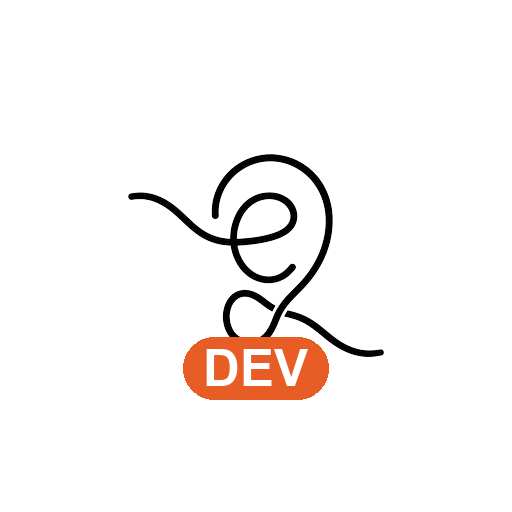
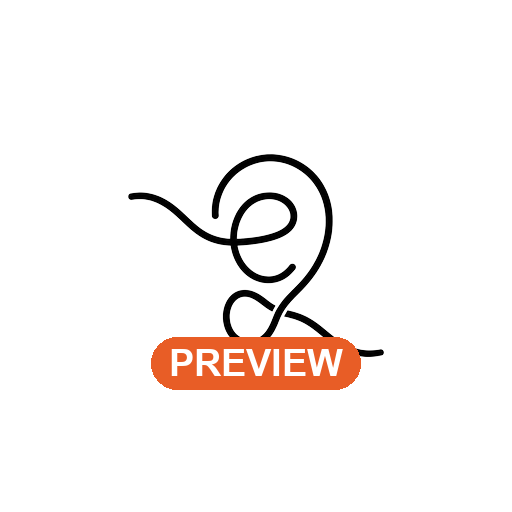
fix(fe): rename the preview app to dev.runtime.ear
Claude-Session: https://claude.ai/code/session_013KBKevs899Fu5rgGedEagb

Changed region(s): [[0.2812, 0.6562, 0.7188, 0.7812]]

diff --git a/frontend/app.config.js b/frontend/app.config.js
@@ -15,7 +15,7 @@
  */
 const IS_DEV_APP = process.env.APP_VARIANT === 'dev';
 
-const DEV_APP_ID = 'com.runtime.ear.dev';
+const DEV_APP_ID = 'dev.runtime.ear';
 
 /**
  * 개발계 앱 전용 소셜 로그인 값. **null 이면 운영 값을 그대로 쓴다**(콘솔 등록 전 상태).
@@ -45,7 +45,7 @@ module.exports = ({ config }) => {
 
   return {
     ...config,
-    name: '이어 dev',
+    name: '이어(Preview)',
     icon: './assets/icon-dev.png',
     ios: { ...ios, bundleIdentifier: DEV_APP_ID },
     android: {

diff --git a/docs/tickets/frontend/pending/dev-app-separate-bundle.md b/docs/tickets/frontend/pending/dev-app-separate-bundle.md
@@ -1,4 +1,4 @@
-# [FE] 개발계 앱을 별도 앱으로 분리 — `com.runtime.ear.dev` "이어 dev" (iOS·Android)
+# [FE] 개발계 앱을 별도 앱으로 분리 — `dev.runtime.ear` "이어(Preview)" (iOS·Android)
 
 | 항목 | 값 |
 |---|---|
@@ -19,7 +19,7 @@
 
 ## 요청 내용
 
-1. **앱 변형.** `APP_VARIANT=dev` 면 번들 ID·패키지 `com.runtime.ear.dev`, 이름 "이어 dev", DEV 띠 아이콘. 운영 설정의 원본은 `app.json` 그대로이고 변형 값이 없으면 `app.config.js` 는 아무것도 바꾸지 않는다.
+1. **앱 변형.** `APP_VARIANT=dev` 면 번들 ID·패키지 `dev.runtime.ear`, 이름 "이어(Preview)", PREVIEW 띠 아이콘. 운영 설정의 원본은 `app.json` 그대로이고 변형 값이 없으면 `app.config.js` 는 아무것도 바꾸지 않는다.
 2. 개발계 앱은 **도메인 연결(`associatedDomains`·https `intentFilters`)을 선언하지 않는다** — 공유 링크는 운영 앱이 받는다.
 3. `eas.json` preview 프로필과 `eas-update.yml` preview 채널 발행이 같은 `APP_VARIANT=dev` 를 쓴다. production 은 preview 를 `extends` 하므로 `APP_VARIANT=production` 을 **명시**한다(env 는 병합된다 — 빠뜨리면 운영 빌드가 dev 를 물려받는다).
 4. **iOS 는 TestFlight 내부 테스트**(`preview-store` 프로필, 스토어 서명)로 배포한다 — 기기 등록이 필요 없고 새 팀원은 이메일 초대만 받는다.
@@ -28,18 +28,16 @@
 
 ## 사람 손 — 콘솔 등록
 
-개발계 앱 Android 서명 키(EAS 저장, 2026-09-19 생성):
-- SHA-1 `A0:29:9F:92:9B:C4:97:33:81:6B:B5:08:7E:89:90:52:ED:7F:4C:7D`
-- 카카오 키 해시 `oCmfkpvElzOBa7UIfomQUu1/TH0=`
+개발계 앱 Android 서명 키(EAS 저장): **식별자를 `dev.runtime.ear` 로 바꾸며 키스토어가 새로 생긴다 — SHA-1·카카오 키 해시는 첫 빌드 뒤 "처리 기록"에 적는다.** (`com.runtime.ear.dev` 용으로 만들어진 키 `A0:29:9F:…` 는 쓰지 않는다)
 
 | # | 어디 | 무엇을 | 안 하면 |
 |---|---|---|---|
-| 1 | Apple(터미널) | `cd frontend && npx eas-cli build -p ios --profile preview-store` — Apple 로그인, 번들 ID·인증서 자동 생성. 이어서 `npx eas-cli submit -p ios --latest` — ASC 앱 "이어 dev" 자동 생성 | iOS 개발계 앱이 없다 |
+| 1 | Apple(터미널) | `cd frontend && npx eas-cli build -p ios --profile preview-store` — Apple 로그인, 번들 ID·인증서 자동 생성. 이어서 `npx eas-cli submit -p ios --latest` — ASC 앱 "이어(Preview)" 자동 생성 | iOS 개발계 앱이 없다 |
 | 2 | App Store Connect | TestFlight > 내부 테스트 그룹에 팀원 추가 | 팀원이 설치 못 한다 |
-| 3 | 구글 클라우드(프로젝트 475643832949) | OAuth 클라이언트 2개 생성 — **iOS**(번들 `com.runtime.ear.dev`) · **Android**(패키지 `com.runtime.ear.dev` + 위 SHA-1). iOS 클라이언트 ID 는 `app.config.js` 의 `DEV_SOCIAL_AUTH.googleIosClientId` 에 넣는다(네이티브 값이라 iOS 재빌드 필요 — **1번보다 먼저 하면 빌드 한 번으로 끝난다**) | 개발계 앱 구글 로그인 실패 |
-| 4 | 카카오 개발자 콘솔 | 플랫폼에 iOS 번들 ID·Android 패키지 `com.runtime.ear.dev` + 위 키 해시 추가 | 개발계 앱 카카오 로그인 실패 |
-| 5 | 네이버 개발자 센터 | Android 패키지 `com.runtime.ear.dev` · iOS 번들 추가(URL 스킴은 그대로 `earnaverlogin`) | 개발계 앱 네이버 로그인 실패 |
-| 6 | 개발계 서버 env | `APPLE_CLIENT_ID=com.runtime.ear.dev` — `docs/tickets/infra/pending/dev-server-apple-client-id.md` | 개발계 iOS 앱 애플 로그인이 `aud` 불일치로 거부된다 |
+| 3 | 구글 클라우드(프로젝트 475643832949) | OAuth 클라이언트 2개 생성 — **iOS**(번들 `dev.runtime.ear`) · **Android**(패키지 `dev.runtime.ear` + 처리 기록의 SHA-1). iOS 클라이언트 ID 는 `app.config.js` 의 `DEV_SOCIAL_AUTH.googleIosClientId` 에 넣는다(네이티브 값이라 iOS 재빌드 필요 — **1번보다 먼저 하면 빌드 한 번으로 끝난다**) | 개발계 앱 구글 로그인 실패 |
+| 4 | 카카오 개발자 콘솔 | 플랫폼에 iOS 번들 ID·Android 패키지 `dev.runtime.ear` + 처리 기록의 키 해시 추가 | 개발계 앱 카카오 로그인 실패 |
+| 5 | 네이버 개발자 센터 | Android 패키지 `dev.runtime.ear` · iOS 번들 추가(URL 스킴은 그대로 `earnaverlogin`) | 개발계 앱 네이버 로그인 실패 |
+| 6 | 개발계 서버 env | `APPLE_CLIENT_ID=dev.runtime.ear` — `docs/tickets/infra/pending/dev-server-apple-client-id.md` | 개발계 iOS 앱 애플 로그인이 `aud` 불일치로 거부된다 |
 
 ## 알려진 한계
 
@@ -49,7 +47,7 @@
 
 ## 완료 조건
 
-- Given 운영 앱이 깔린 폰 / When 개발계 앱을 설치한다 / Then 두 앱이 나란히 있고 이름("이어 dev")·아이콘(DEV 띠)으로 구분된다
+- Given 운영 앱이 깔린 폰 / When 개발계 앱을 설치한다 / Then 두 앱이 나란히 있고 이름("이어(Preview)")·아이콘(PREVIEW 띠)으로 구분된다
 - Given `APP_VARIANT` 없이 설정을 평가한다 / When `app.json` 만 쓸 때와 비교한다 / Then 한 글자도 다르지 않다
 - Given 개발계 앱 / When dev 에 JS 변경이 머지된다 / Then preview 채널 OTA 로 받고 개발계 API 를 본다
 - Given 개발계 앱 / When 구글·카카오·네이버·애플로 로그인한다 / Then 개발계 API 로 로그인된다
@@ -61,3 +59,7 @@
 - `eas.json`: preview `APP_VARIANT=dev`, production `APP_VARIANT=production` 명시, `preview-store` 프로필 추가. `eas-update.yml`: 채널 결정 단계가 `app_variant` 도 정한다.
 - EAS 에 개발계 앱 Android 키스토어 생성됨(위 SHA-1). 클라우드 빌드는 무료 한도 소진으로 실패 → `dev-app-build.yml` 로 대체.
 - 남은 것: 위 "사람 손" 1~6, Android APK 워크플로 첫 실행 확인, 팀 Slack 공지. 끝나면 KAN-65 와 함께 닫는다.
+
+## 처리 기록 (2026-09-19 — 식별자·이름 변경)
+
+- 계정 소유자가 등록한 값에 맞춰 식별자를 `com.runtime.ear.dev` → **`dev.runtime.ear`**, 이름을 "이어 dev" → **"이어(Preview)"**, 아이콘 띠를 DEV → PREVIEW 로 바꿨다. 아직 배포된 개발계 빌드가 없어 영향은 없다.

diff --git a/docs/tickets/infra/pending/dev-server-apple-client-id.md b/docs/tickets/infra/pending/dev-server-apple-client-id.md
@@ -7,21 +7,21 @@
 | 요청자 | 이주호(FE) |
 | 발행 날짜 | 2026-09-19 |
 | Jira | [KAN-77](https://runtime364.atlassian.net/browse/KAN-77) |
-| 발견 시점 | 개발계 앱을 별도 번들(`com.runtime.ear.dev`)로 분리(KAN-76) |
+| 발견 시점 | 개발계 앱을 별도 번들(`dev.runtime.ear`)로 분리(KAN-76) |
 | 근거 문서 | `backend/src/config/env.validation.ts`(`APPLE_CLIENT_ID` — 애플 identity token 의 `aud` = iOS 번들 ID) · `spec/api/auth-api.md` 4.1 |
 | 중요도 | **Low** — 이번 주 안. iOS 개발계 앱이 TestFlight 에 올라오기 전까지는 영향 없다 |
 
 ## 문제
 
-서버는 애플 identity token 의 `aud` 를 `APPLE_CLIENT_ID`(iOS 번들 ID)·`APPLE_SERVICES_ID` 와 대조한다(`apple.client.ts`). 개발계 iOS 앱의 번들 ID 가 `com.runtime.ear.dev` 로 바뀌면 토큰의 `aud` 도 그 값이라, 개발계 서버가 운영 번들 ID(`com.runtime.ear`)를 들고 있으면 **개발계 iOS 앱의 애플 로그인이 전부 거부된다.**
+서버는 애플 identity token 의 `aud` 를 `APPLE_CLIENT_ID`(iOS 번들 ID)·`APPLE_SERVICES_ID` 와 대조한다(`apple.client.ts`). 개발계 iOS 앱의 번들 ID 가 `dev.runtime.ear` 로 바뀌면 토큰의 `aud` 도 그 값이라, 개발계 서버가 운영 번들 ID(`com.runtime.ear`)를 들고 있으면 **개발계 iOS 앱의 애플 로그인이 전부 거부된다.**
 
 ## 요청 내용
 
-- **개발계** 서버의 `APPLE_CLIENT_ID` 를 `com.runtime.ear.dev` 로 바꾼다. **운영은 건드리지 않는다.**
+- **개발계** 서버의 `APPLE_CLIENT_ID` 를 `dev.runtime.ear` 로 바꾼다. **운영은 건드리지 않는다.**
 - `APPLE_SERVICES_ID`(Android 웹 OAuth)는 그대로 둔다 — 개발계 앱도 같은 Services ID 를 쓴다.
 - 종전 preview 빌드(번들 `com.runtime.ear`)의 iOS 판은 뽑은 적이 없으므로(ad-hoc 기기 0대) 두 값을 동시에 받을 필요는 없다.
 
 ## 완료 조건
 
-- Given 개발계 iOS 앱(`com.runtime.ear.dev`) / When 애플로 로그인한다 / Then 개발계 API 가 토큰을 받아들인다
+- Given 개발계 iOS 앱(`dev.runtime.ear`) / When 애플로 로그인한다 / Then 개발계 API 가 토큰을 받아들인다
 - Given 운영 iOS 앱 / When 애플로 로그인한다 / Then 종전과 같이 동작한다(운영 env 불변)

diff --git a/docs/changes/pending/frontend-architecture-app-variant.md b/docs/changes/pending/frontend-architecture-app-variant.md
@@ -9,7 +9,7 @@
 ## 수정 내용
 
 1. 2.1 에 "앱 변형" 항을 추가한다.
-   - 운영 앱 `com.runtime.ear`(production 프로필·production 채널·운영 API), 개발계 앱 `com.runtime.ear.dev` "이어 dev"(preview 계열 프로필·preview 채널·개발계 API).
+   - 운영 앱 `com.runtime.ear`(production 프로필·production 채널·운영 API), 개발계 앱 `dev.runtime.ear` "이어(Preview)"(preview 계열 프로필·preview 채널·개발계 API).
    - **운영 설정의 원본은 `app.json`** 이고 `app.config.js` 는 `APP_VARIANT=dev` 일 때만 덮어쓴다.
    - `APP_VARIANT` 는 **빌드 프로필 env(`eas.json`)와 OTA 발행(`eas-update.yml`) 두 곳에서 같은 값**이어야 한다. production 프로필은 preview 를 extends 하므로 값을 명시한다.
    - 개발계 앱은 도메인 연결을 선언하지 않는다(공유 링크는 운영 앱이 받는다).
